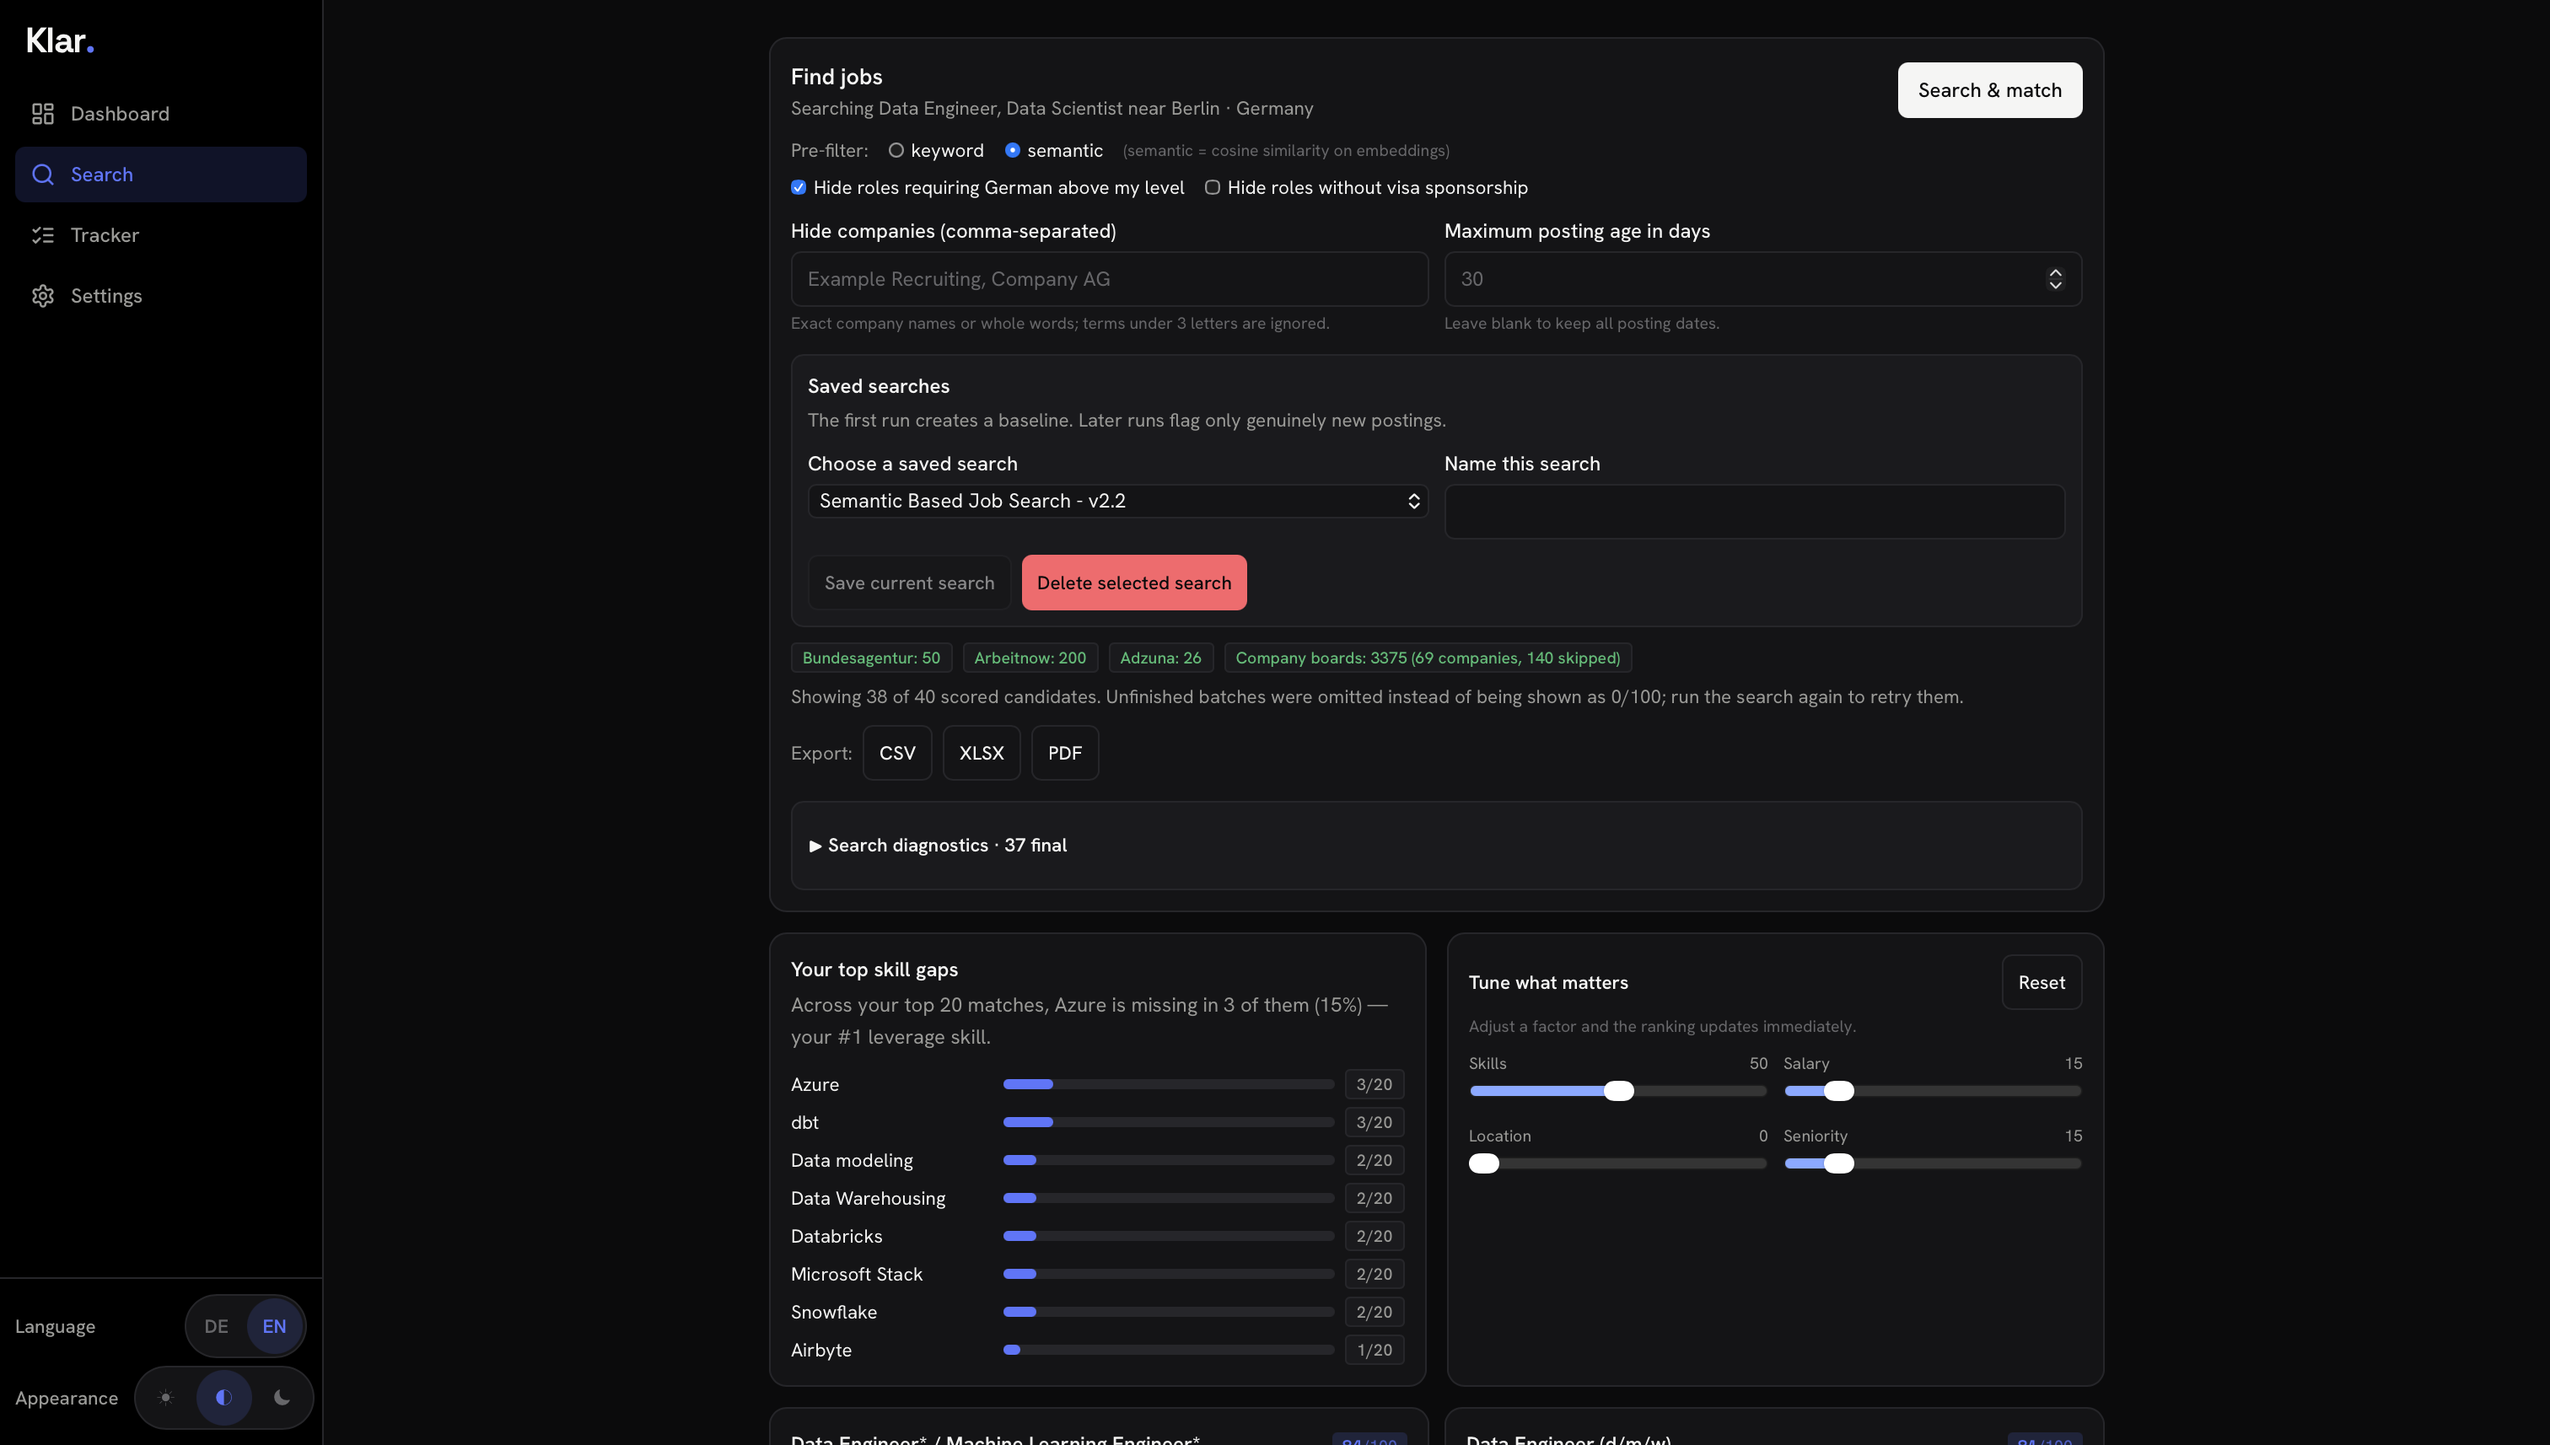
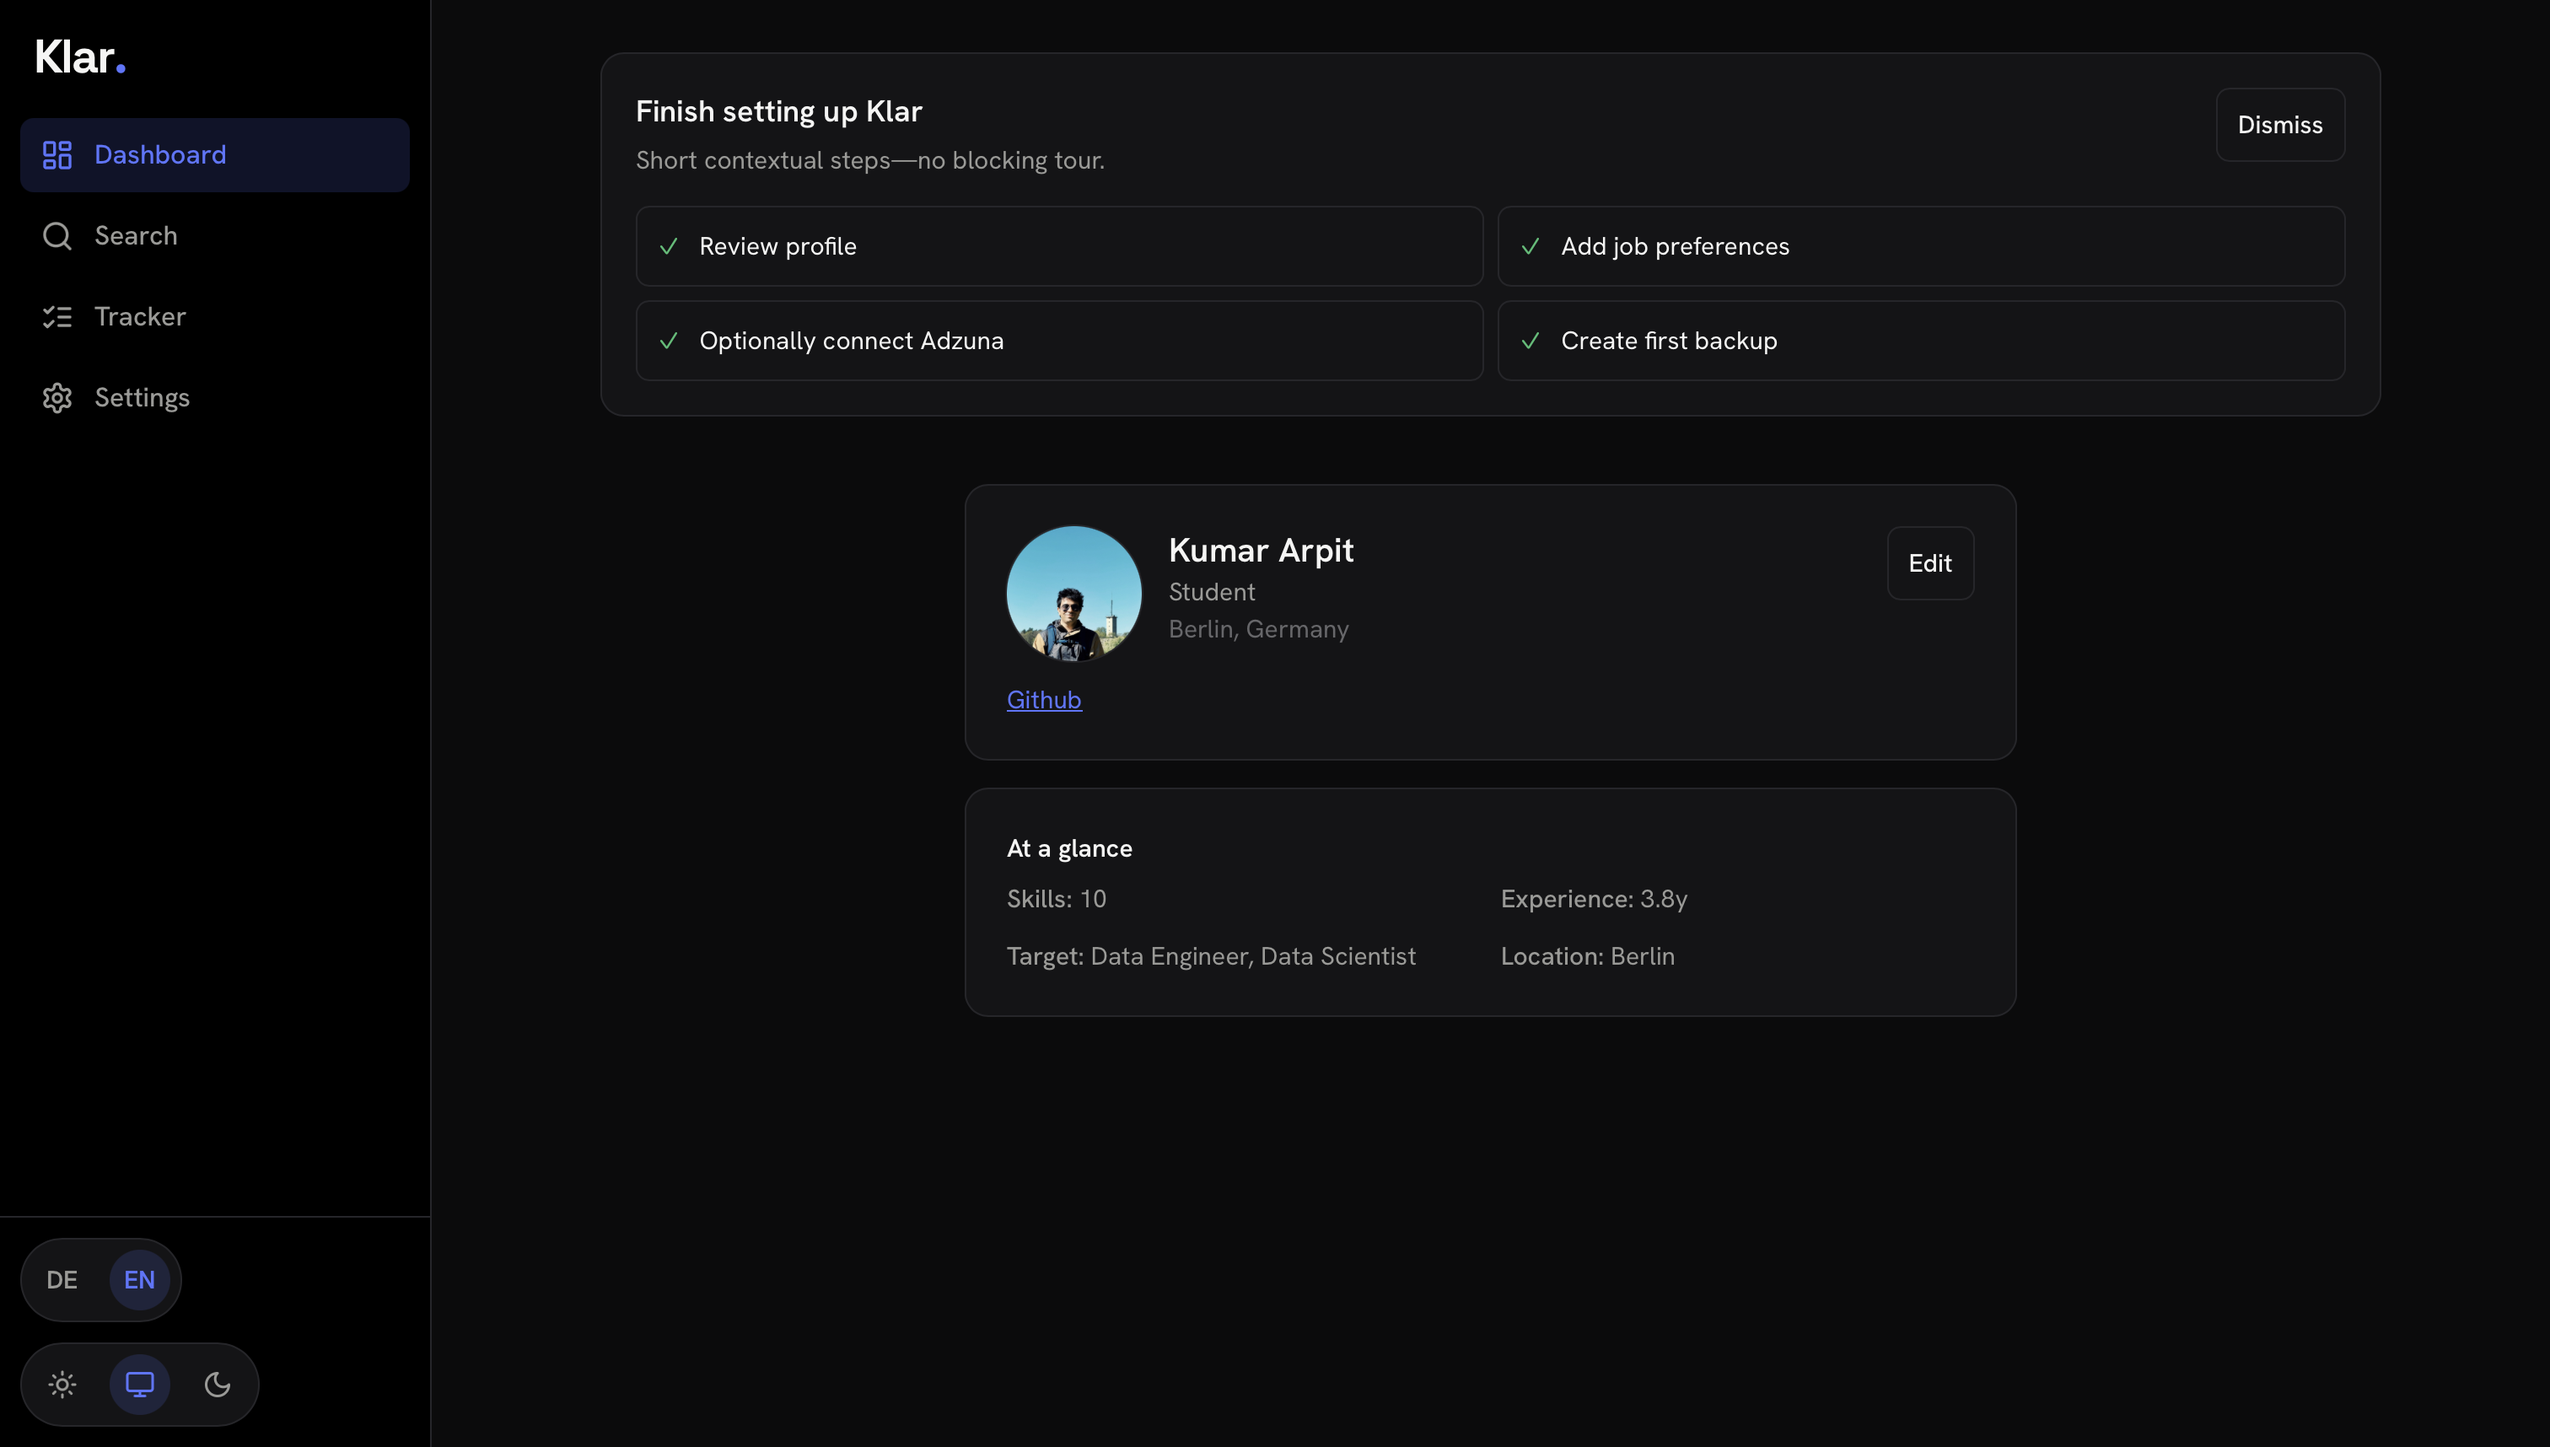
Updated Readme and images

diff --git a/README.md b/README.md
@@ -1,12 +1,16 @@
-# Klar
+# <center> Klar </center>
 
-## Your next move, made clear.
+## <center> Your next move, made clear. </center>
 
-Klar brings your entire job search into one calm, private workspace. Discover live roles, understand where you fit, create stronger applications, and keep every opportunity moving—without losing yourself in tabs, spreadsheets, and scattered notes.
+Klar brings your entire job search into one calm, private workspace. Discover live roles, understand where you fit, create stronger applications, and keep every opportunity moving, without losing yourself in tabs, spreadsheets, and scattered notes.
 
 [**Open Klar →**](https://karpit0499.github.io/klar/) · [See what’s new in v2.3](CHANGELOG.md)
 
 ![Klar dashboard](docs/klar-dashboard.png)
+<center> ***Klar Dashboard*** </center>
+
+![Klar search](docs/klar-search.png)
+<center> ***Klar Search*** </center>
 
 ---
 
@@ -23,7 +27,7 @@ When a search returns nothing, Klar does not leave you guessing. It shows what h
 Klar meets you where you are. Choose the path that matches your search and it sets up only what you need:
 
 - **Build a career profile** to match roles against a structured résumé.
-- **Find flexible work** — minijobs, part-time, working-student, weekend, evening, and seasonal roles—without uploading a résumé at all.
+- **Find flexible work** like minijobs, part-time, working-student, weekend, evening, and seasonal roles, all without uploading a résumé at all.
 - **Explore Klar first** in a temporary sample workspace where nothing is saved.
 - **Restore a backup** and pick up exactly where you left off.
 
@@ -37,7 +41,7 @@ Adjust what matters most to you. Save the promising roles. Hide the noise. Come 
 
 ### Keep your résumé in one trustworthy place
 
-Your résumé is now the single source of truth behind everything Klar does. Edit it directly inside Klar—experience, education, skills, projects, certifications, and languages—reorder what matters, and undo a change if you go too far. A structural completeness check points out missing dates or roles without achievements, and earlier versions are kept so you can look back or restore one.
+Your résumé is now the single source of truth behind everything Klar does. Edit it directly inside Klar, for example, experience, education, skills, projects, certifications, and languages. Reorder what matters, and undo a change if you go too far. A structural completeness check points out missing dates or roles without achievements, and earlier versions are kept so you can look back or restore one.
 
 ### Make every application feel considered
 
@@ -50,7 +54,7 @@ Turn one résumé into a focused application for each opportunity. Klar can help
 - Prepare interview questions, talking points, and honest ways to address gaps.
 - Explore salary context and estimate German take-home pay.
 
-Klar is designed to strengthen your story—not invent a new one. Generated material stays tied to the specific bullets and facts in your résumé and should always be reviewed before you send it.
+Klar is designed to strengthen your story, not invent a new one. Generated material stays tied to the specific bullets and facts in your résumé and should always be reviewed before you send it.
 
 ### Keep momentum without the spreadsheet
 
@@ -70,7 +74,7 @@ Your career is personal. Klar treats it that way.
 - A complete encrypted backup can move credentials safely while keeping them unreadable.
 - A readable data export is separate, clearly warned, and always requires confirmation.
 
-When you use an AI feature, the information needed for that feature is sent to Groq for processing. It is not stored on a Klar-controlled application server. If you enable the vault, keep your passphrase safe—Klar cannot recover it.
+When you use an AI feature, the information needed for that feature is sent to Groq for processing. It is not stored on a Klar-controlled application server. If you enable the vault, keep your passphrase safe as Klar cannot recover it.
 
 ---
 
@@ -115,7 +119,7 @@ You need a current browser and your own [Groq API key](https://console.groq.com/
 
 1. [Open Klar](https://karpit0499.github.io/klar/).
 2. Choose your language and appearance.
-3. Pick how you want to start—career profile, flexible work, or a quick explore.
+3. Pick how you want to start: career profile, flexible work, or a quick explore.
 4. Upload a PDF or DOCX résumé and review it, or skip it for flexible work.
 5. Tell Klar what kind of role you want.
 6. Start discovering, comparing, and saving opportunities.
